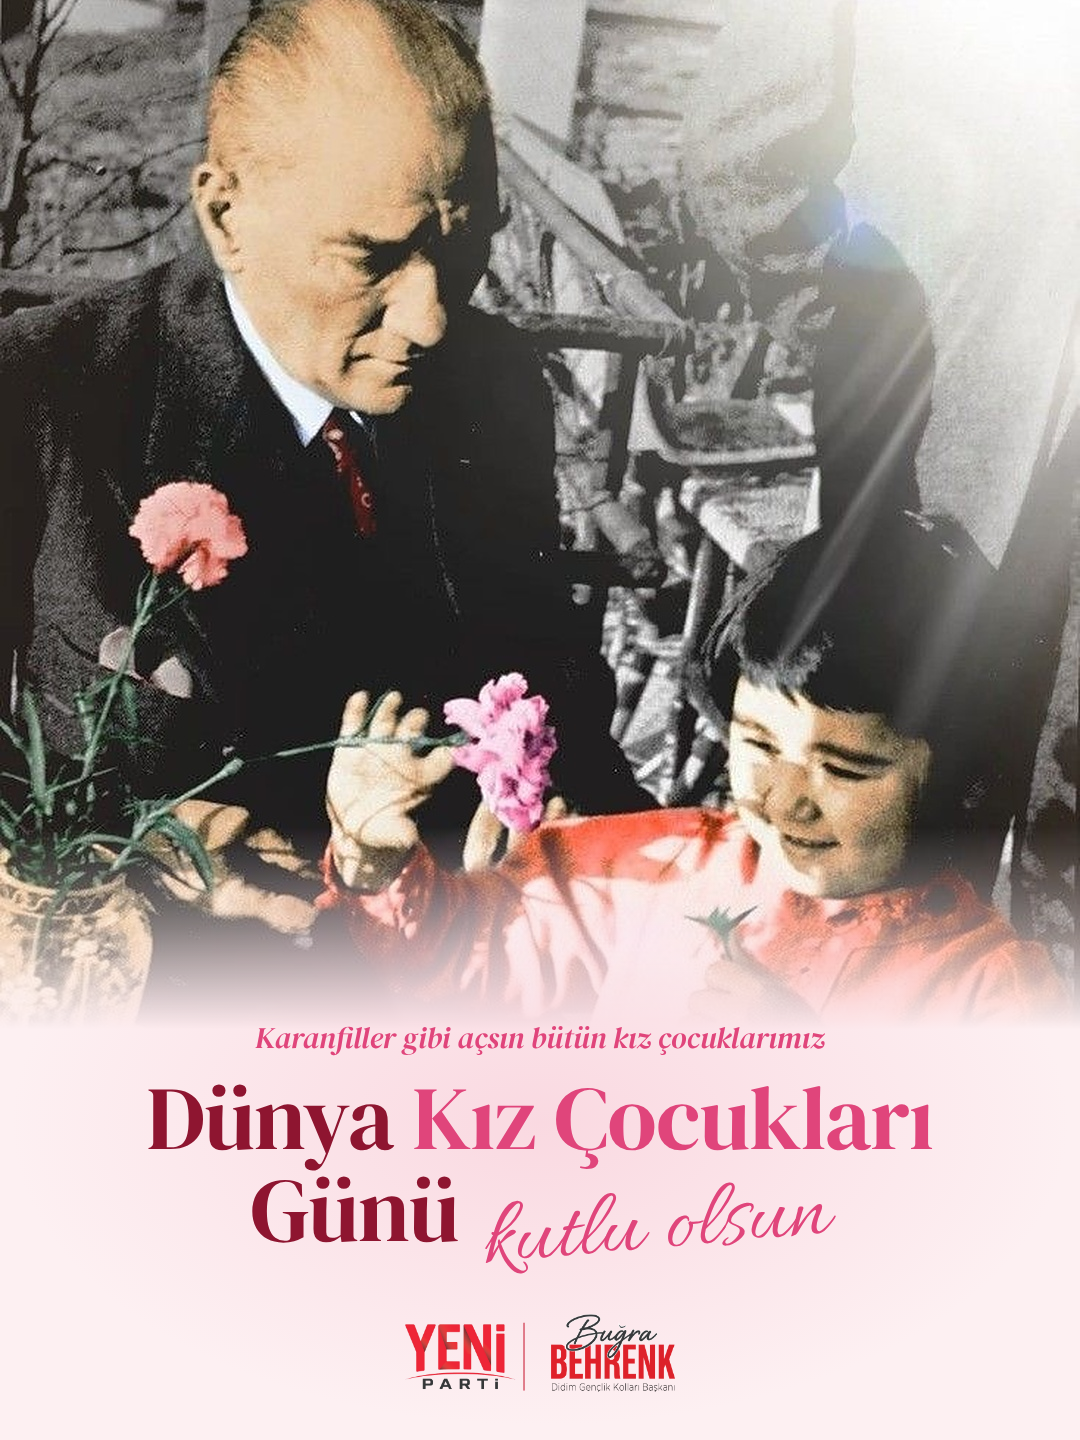
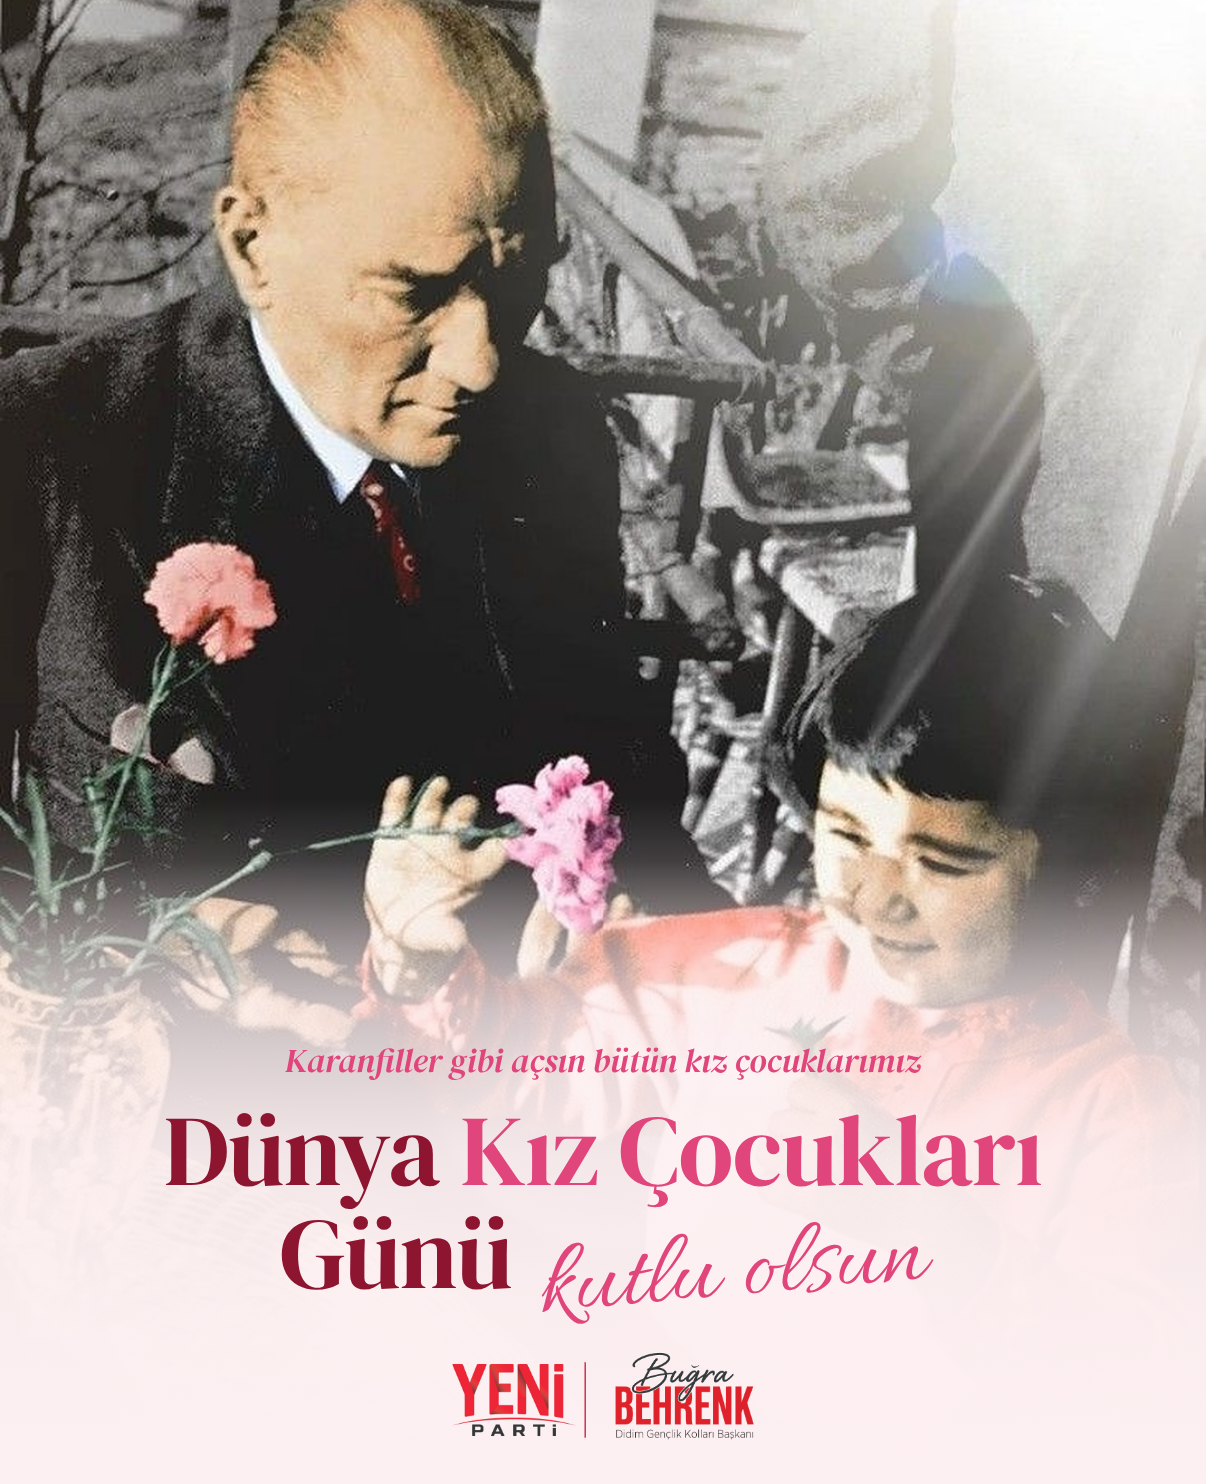
11 Ekim görselleri: 1206x1484, fotoğraf yazıların arkasına uzun geçişle devam ediyor
Claude-Session: https://claude.ai/code/session_01SatttGbgBLoCnk9KGLypWv

diff --git a/tasarim/kiz-cocuklari/karanfil-bugra.html b/tasarim/kiz-cocuklari/karanfil-bugra.html
@@ -7,25 +7,25 @@
 
 /* fotoğraftaki karanfil pembesi ve elbise kırmızısı */
 :root{--pudra:#FDF0F2;--bordo:#8E1530;--karanfil:#E0457B;--gul:#F7C6D3}
-html,body{margin:0;width:1080px;height:1440px;overflow:hidden;background:var(--pudra)}
+html,body{margin:0;width:1080px;height:1329px;overflow:hidden;background:var(--pudra)}
 body{position:relative;color:var(--bordo)}
-.foto{position:absolute;left:0;top:-96px;width:1080px;
-  -webkit-mask:linear-gradient(to bottom,#000 0 64%,rgba(0,0,0,.55) 71%,transparent 78%)}
+.foto{position:absolute;left:0;top:-92px;width:1080px;
+  -webkit-mask:linear-gradient(to bottom,#000 0 56%,rgba(0,0,0,.6) 66%,rgba(0,0,0,.28) 78%,rgba(0,0,0,.1) 88%,transparent 98%)}
 .pembe-isik{position:absolute;inset:0;
-  background:radial-gradient(ellipse 70% 30% at 50% 78%,rgba(247,198,211,.55),transparent 70%)}
+  background:linear-gradient(to bottom,rgba(253,240,242,0) 58%,rgba(253,240,242,.55) 68%,rgba(253,240,242,.82) 78%,rgba(253,240,242,.9) 100%)}
 
 .etiket{position:absolute;right:56px;top:56px;background:var(--bordo);color:#fff;
   font:700 22px/1 Kucuk;letter-spacing:.42em;padding:15px 16px 15px 24px;border-radius:40px}
 
 
-.metin{position:absolute;left:0;right:0;top:1018px;text-align:center}
+.metin{position:absolute;left:0;right:0;top:930px;text-align:center}
 .metin .ince{font:30px/1.3 BaslikI;color:var(--karanfil)}
 .metin .b1{margin-top:16px;font:400 90px/1 Baslik;letter-spacing:-.01em}
 .metin .b1 em{font-style:normal;color:var(--karanfil)}
 .metin .b2{font:400 90px/1.04 Baslik;letter-spacing:-.012em;display:inline-block}
 .metin .el{display:inline-block;margin-left:22px;font:96px/1 El;color:var(--karanfil);transform:rotate(-5deg) translateY(6px)}
 
-.imza{position:absolute;left:50%;bottom:48px;width:270px;transform:translateX(-50%)}
+.imza{position:absolute;left:50%;bottom:40px;width:270px;transform:translateX(-50%)}
 </style>
 <body>
 <img class="foto" src="karanfil.jpg">

diff --git a/tasarim/kiz-cocuklari/koridor-didim.html b/tasarim/kiz-cocuklari/koridor-didim.html
@@ -9,14 +9,14 @@
 
 /* fotoğrafın kendi sepya tonları */
 :root{--krem:#F7EBDA;--kahve:#2A1A10;--altin:#E7B66B;--kiremit:#D9483B}
-html,body{margin:0;width:1080px;height:1440px;overflow:hidden;background:var(--kahve)}
+html,body{margin:0;width:1080px;height:1329px;overflow:hidden;background:var(--kahve)}
 body{position:relative;color:var(--krem)}
-.foto{position:absolute;left:0;top:-196px;width:1080px}
+.foto{position:absolute;left:0;top:-214px;width:1080px}
 /* güneş ışığı ve alttan sıcak karartma */
 .isik{position:absolute;inset:0;
   background:
     radial-gradient(ellipse 60% 45% at 18% 10%,rgba(255,236,200,.35),transparent 70%),
-    linear-gradient(to bottom,rgba(42,26,16,0) 56%,rgba(42,26,16,.7) 66%,rgba(42,26,16,.96) 74%,#2A1A10 100%)}
+    linear-gradient(to bottom,rgba(42,26,16,0) 40%,rgba(42,26,16,.5) 56%,rgba(42,26,16,.78) 68%,rgba(42,26,16,.9) 84%,rgba(42,26,16,.97) 100%)}
 
 /* koşan kızın yolunu izleyen kesik çizgi */
 .yol{position:absolute;inset:0}
@@ -24,7 +24,7 @@ body{position:relative;color:var(--krem)}
 .ust{position:absolute;left:64px;top:64px;font:700 22px/1 Kucuk;letter-spacing:.42em;color:var(--kahve);
   background:var(--krem);padding:14px 18px 14px 22px;border-radius:4px}
 
-.metin{position:absolute;left:0;right:0;top:972px;text-align:center}
+.metin{position:absolute;left:0;right:0;top:868px;text-align:center}
 .metin .davet{font:700 22px/1 Kucuk;letter-spacing:.34em;padding-left:.34em;color:var(--altin)}
 .metin .b1{margin-top:24px;font:72px/1 AfisO;letter-spacing:.06em;padding-left:.06em}
 .metin .b2{margin-top:14px;font:118px/1 Afis;letter-spacing:.005em;color:var(--kiremit)}
